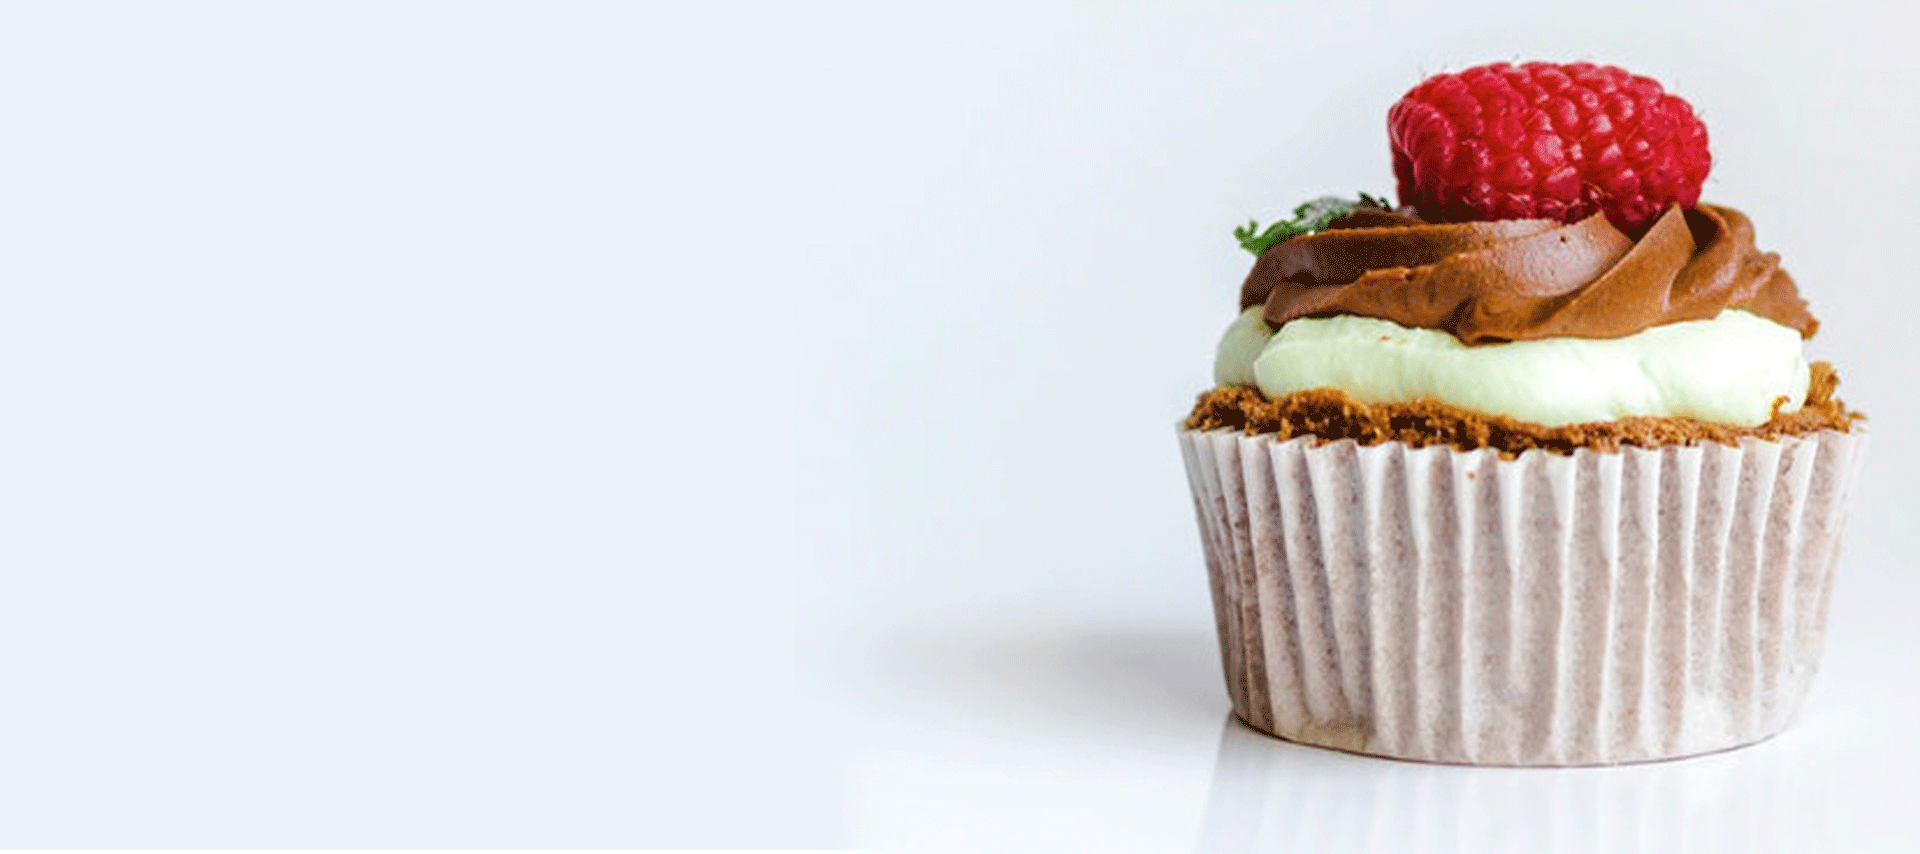
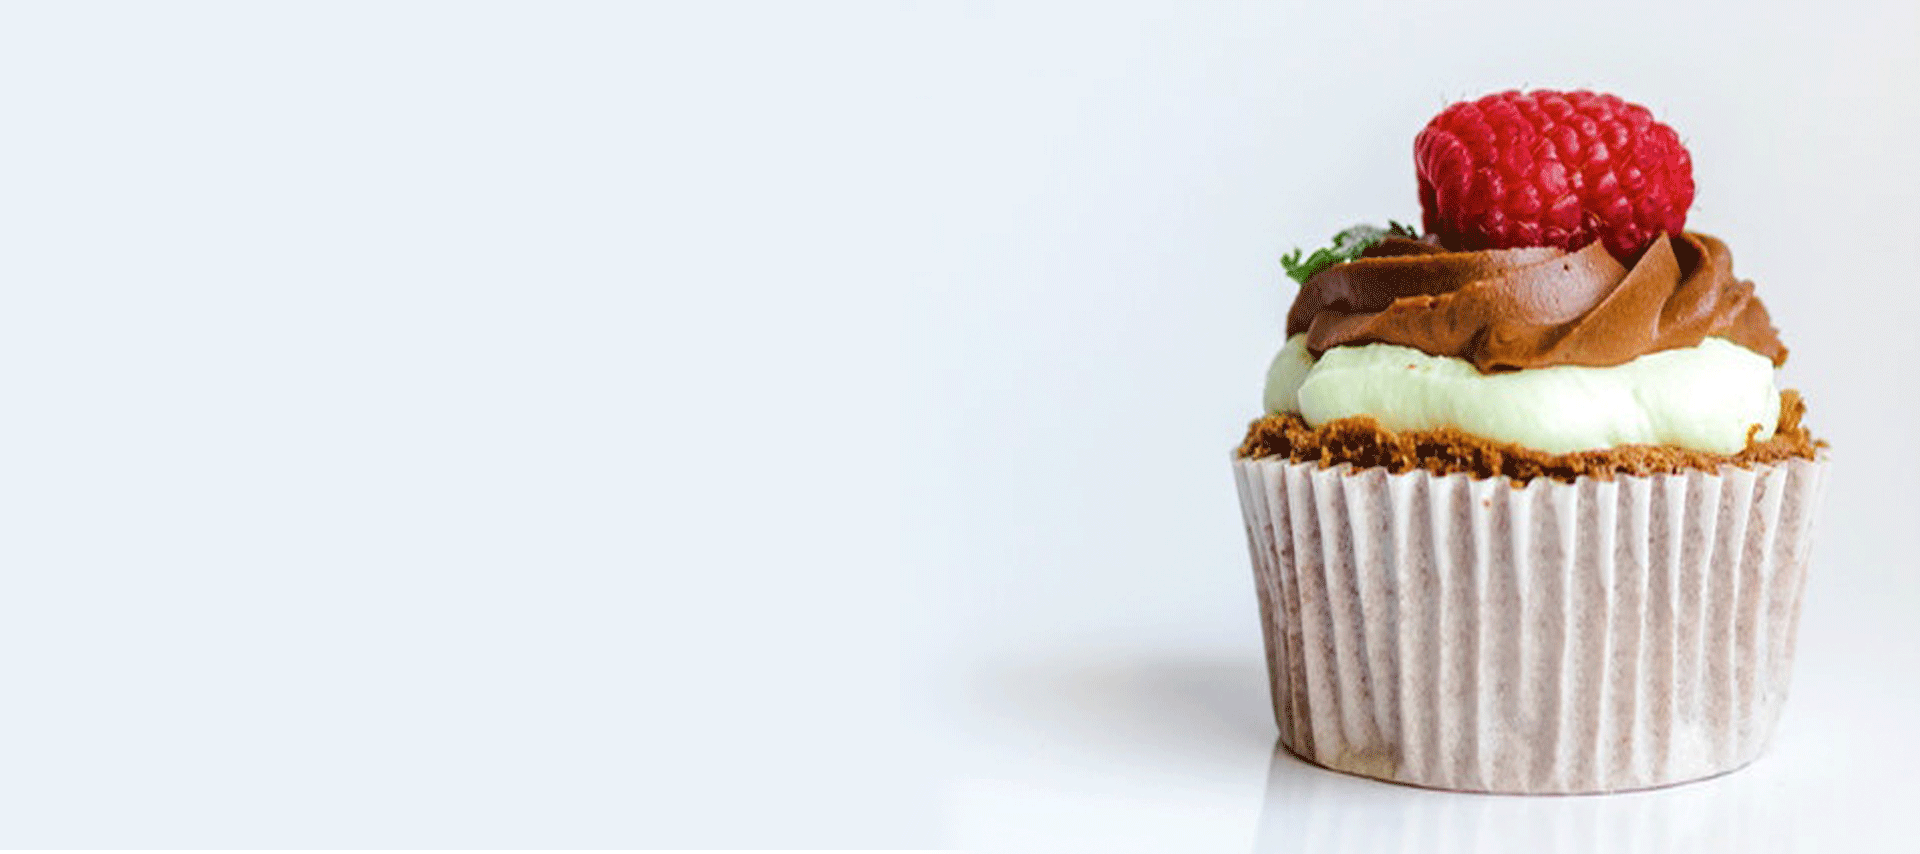
style of cupcake image

Changed region(s): [[0.5, 0.0609, 0.9688, 0.9438]]

diff --git a/css/style.css b/css/style.css
@@ -136,7 +136,8 @@ h2 {
     background: #282828;
     color: #fff;
     text-decoration: none;
-    border-radius: 50px;  
+    border-radius: 50px;
+    transition: 0.3s;
 }
 
 .cta-btn:hover {
@@ -193,3 +194,46 @@ h2 {
     margin: 20px 0;
 }
 
+/*Cupcake section*/
+
+#cupcake {
+    background: url('../img/cake.png');
+    background-size: cover;
+    background-position: center;
+    
+}
+
+.download-info {
+    width: 60%;
+    padding: 10px 0px;
+    
+}
+
+
+#cupcake h2 {
+    margin-bottom: 40px;
+    padding: 100px 0px;
+}
+
+.cupcake-para {
+    font-size: 22px;
+    line-height: 30px;
+    font-family: 'Raleway', sans-serif;
+    font-weight: 700;
+    padding-bottom: 20px;
+}
+
+.download-btn {
+    padding: 15px;
+    background: #d9332d;
+    color: #fff;
+    border-radius: 50px;
+    text-decoration: none;
+    margin: 50px;
+    transition: 0.3s;
+}
+
+.download-btn:hover {
+    background: #c33934;
+    transition: 0.3s;
+}

diff --git a/index.html b/index.html
@@ -73,8 +73,16 @@
                     </div>
                 </div>
             </div>
-
-
+        </section>
+        
+        <section id="cupcake">
+            <div class="container">
+                <div class="download-info">
+                    <h2>Beware the savage jaw of 1984.</h2>
+                    <p class="cupcake-para">If you think we're gonna make it, you better hang on to yourself. Oh no, don't say it's true. Do you remember, the bills you have to pay? Breaking up is hard, but keeping dark is hateful. He laughed at accidental sirens that broke the evening gloom. I'm happy, hope you're happy too. </p>
+                    <a href="#" class="download-btn">Download</a>
+                </div>
+            </div>
         </section>
         
         
